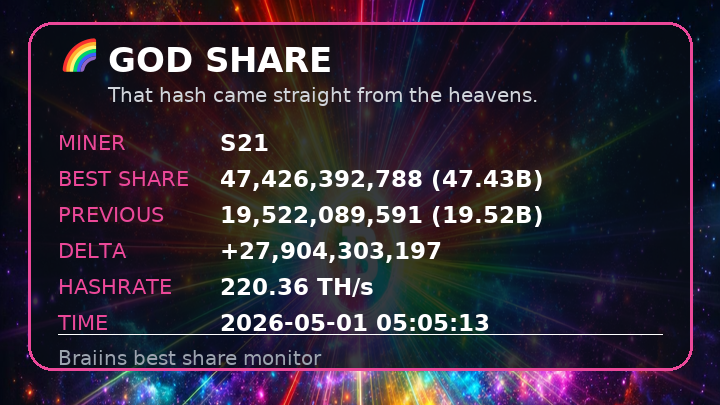
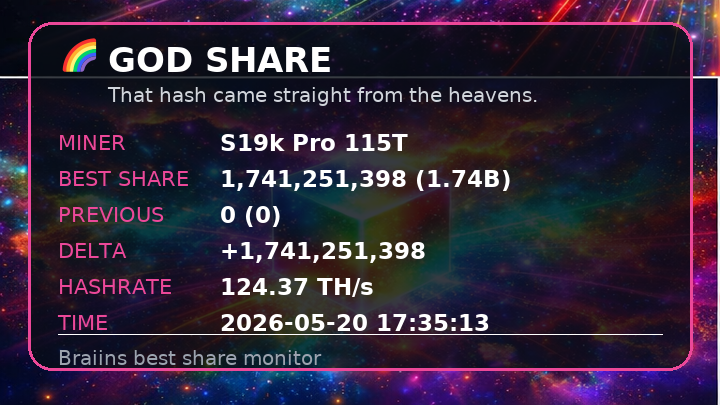
Track best share per miner

diff --git a/check_best_share.py b/check_best_share.py
@@ -2,6 +2,7 @@
 import logging
 import os
 import random
+import json
 from dataclasses import dataclass
 from datetime import datetime
 from pathlib import Path
@@ -33,10 +34,16 @@ STATE_FILE = Path(
     or BASE_DIR / "last_best_share_2.txt"
 )
 
-MINER = {
-    "name": os.getenv("BEST_SHARE_MINER_NAME", "S21"),
-    "ip": os.getenv("BEST_SHARE_MINER_IP", "192.168.1.205"),
-}
+MINERS = [
+    {
+        "name": os.getenv("BEST_SHARE_MINER_NAME", "S21"),
+        "ip": os.getenv("BEST_SHARE_MINER_IP", "192.168.1.205"),
+    },
+    {
+        "name": os.getenv("BEST_SHARE_MINER_NAME_2", "S19k Pro 115T"),
+        "ip": os.getenv("BEST_SHARE_MINER_IP_2", "192.168.1.208"),
+    },
+]
 
 CARD_SIZE = (720, 405)
 OVERLAY_BOX = ((28, 22), (692, 370))
@@ -175,19 +182,36 @@ def fetch_best_share(miner: dict) -> dict:
     }
 
 
-def get_last_best_share() -> int:
+def get_last_best_shares() -> dict[str, int]:
     if not STATE_FILE.exists():
-        return 0
+        return {}
     try:
-        return int(STATE_FILE.read_text(encoding="utf-8").strip())
-    except (OSError, ValueError):
+        raw_state = STATE_FILE.read_text(encoding="utf-8").strip()
+        if not raw_state:
+            return {}
+
+        payload = json.loads(raw_state)
+        if isinstance(payload, dict):
+            return {str(name): to_int(value, 0) for name, value in payload.items()}
+    except json.JSONDecodeError:
+        try:
+            legacy_value = int(STATE_FILE.read_text(encoding="utf-8").strip())
+            primary_name = MINERS[0]["name"]
+            return {primary_name: legacy_value}
+        except (OSError, ValueError):
+            logger.warning("Could not parse previous best share from %s", STATE_FILE)
+            return {}
+    except OSError:
         logger.warning("Could not parse previous best share from %s", STATE_FILE)
-        return 0
+        return {}
+
+    logger.warning("Unexpected best share state format in %s", STATE_FILE)
+    return {}
 
 
-def update_last_best_share(best_share: int) -> None:
+def update_last_best_shares(best_shares: dict[str, int]) -> None:
     STATE_FILE.parent.mkdir(parents=True, exist_ok=True)
-    STATE_FILE.write_text(str(best_share), encoding="utf-8")
+    STATE_FILE.write_text(json.dumps(best_shares, sort_keys=True), encoding="utf-8")
 
 
 def resolve_share_tier(best_share: int) -> ShareTier:
@@ -271,36 +295,44 @@ def send_photo(chat_id: str, token: str, image_path: Path, caption: str) -> None
 def main() -> None:
     chat_id = require_env("TELEGRAM_CHAT_ID")
     token = require_env("TELEGRAM_TOKEN")
+    last_shares = get_last_best_shares()
+    updated = False
 
-    current = fetch_best_share(MINER)
-    best_share = current["best_share"]
-    last_share = get_last_best_share()
+    for miner in MINERS:
+        current = fetch_best_share(miner)
+        best_share = current["best_share"]
+        last_share = last_shares.get(miner["name"], 0)
 
-    if best_share <= 0:
-        raise RuntimeError("Miner returned an empty best share")
+        if best_share <= 0:
+            raise RuntimeError(f"{miner['name']} returned an empty best share")
 
-    if best_share <= last_share:
-        logger.info(
-            "No improvement for %s: current=%s previous=%s",
-            MINER["name"],
-            best_share,
-            last_share,
+        if best_share <= last_share:
+            logger.info(
+                "No improvement for %s: current=%s previous=%s",
+                miner["name"],
+                best_share,
+                last_share,
+            )
+            continue
+
+        last_shares[miner["name"]] = best_share
+        updated = True
+
+        miner_payload = {
+            "name": miner["name"],
+            "hashrate_th": current["hashrate_th"],
+        }
+        build_card(miner_payload, best_share, last_share, IMG_PATH)
+
+        caption = (
+            f"{resolve_share_tier(best_share).icon} {miner['name']} new best share\n"
+            f"{format_compact(best_share)} over {format_compact(last_share)}"
         )
-        return
+        send_photo(chat_id, token, IMG_PATH, caption)
+        logger.info("Sent best share alert for %s: %s", miner["name"], best_share)
 
-    update_last_best_share(best_share)
-    miner_payload = {
-        "name": MINER["name"],
-        "hashrate_th": current["hashrate_th"],
-    }
-    build_card(miner_payload, best_share, last_share, IMG_PATH)
-
-    caption = (
-        f"{resolve_share_tier(best_share).icon} {MINER['name']} new best share\n"
-        f"{format_compact(best_share)} over {format_compact(last_share)}"
-    )
-    send_photo(chat_id, token, IMG_PATH, caption)
-    logger.info("Sent best share alert for %s: %s", MINER["name"], best_share)
+    if updated:
+        update_last_best_shares(last_shares)
 
 
 if __name__ == "__main__":
